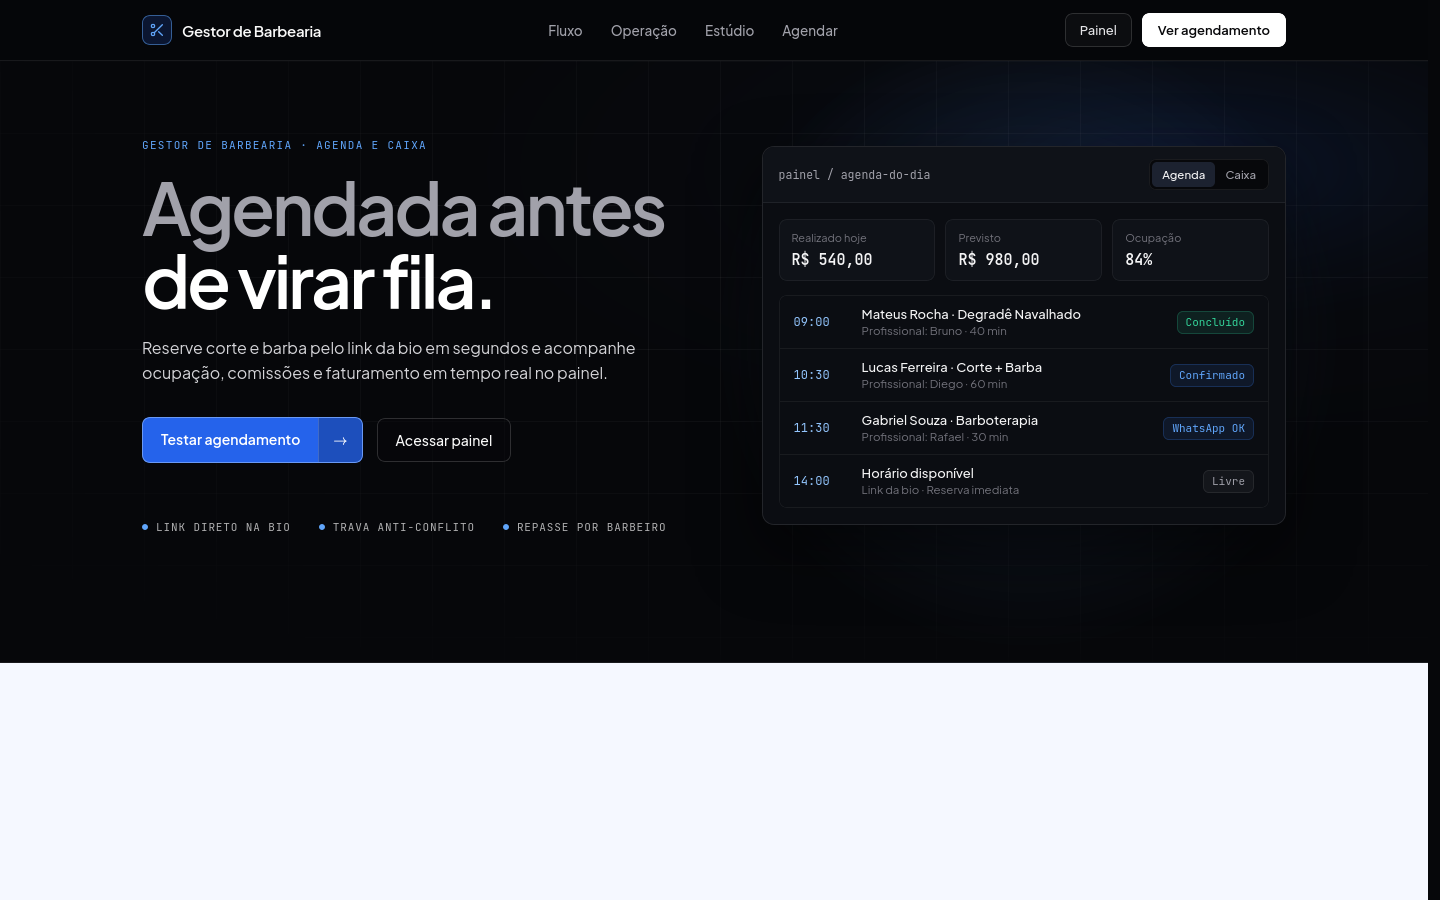
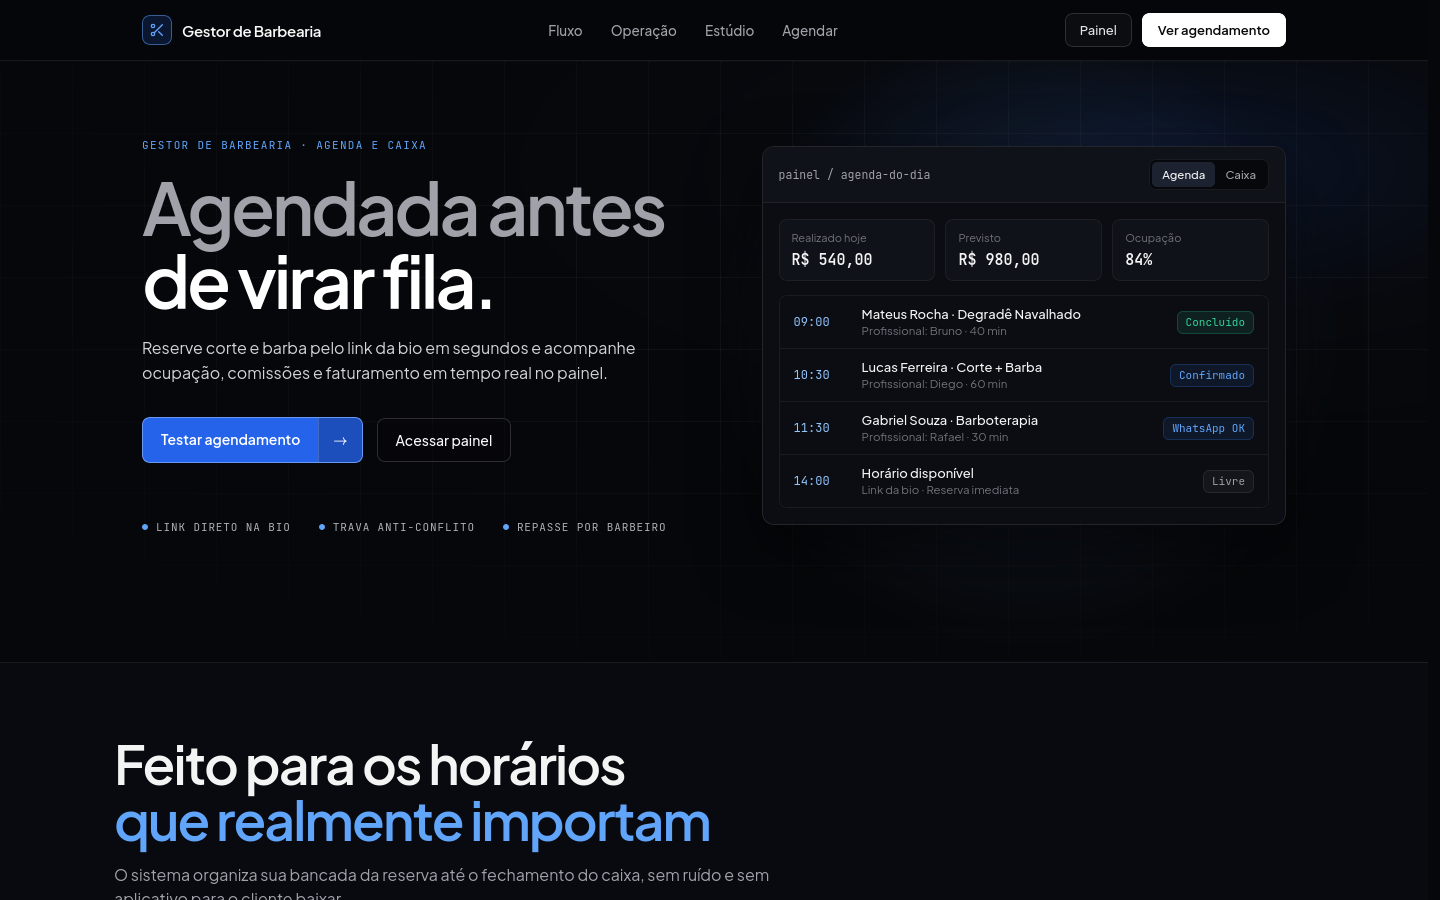
style(apresentacao): fix white fold band and unify Obsidian dark surface

Changed region(s): [[0.0, 0.7156, 1.0, 1.0]]

diff --git a/public/apresentacao.html b/public/apresentacao.html
@@ -17,11 +17,11 @@
       --blue-bright: #3B82F6;
       --blue-soft: #60A5FA;
       --blue-ice: #93C5FD;
-      --ice-bg: #F5F8FF;
-      --ice-card: #FFFFFF;
-      --ice-border: #E2E8F0;
-      --ink-dark: #09090B;
-      --ink-muted: #52525B;
+      --ice-bg: #080A0F;
+      --ice-card: #0E1117;
+      --ice-border: rgba(255, 255, 255, 0.08);
+      --ink-dark: #F4F4F5;
+      --ink-muted: #A1A1AA;
       --font: 'Plus Jakarta Sans', -apple-system, BlinkMacSystemFont, 'Segoe UI', sans-serif;
       --font-mono: 'JetBrains Mono', ui-monospace, SFMono-Regular, monospace;
       --ease: cubic-bezier(0.22, 1, 0.36, 1);
@@ -691,12 +691,12 @@
       font-weight: 600;
       line-height: 1.05;
       letter-spacing: -0.035em;
-      color: #09090B;
+      color: var(--ink-dark);
     }
 
     .ice-h2 span {
       display: block;
-      color: #2563EB;
+      color: #60A5FA;
     }
 
     .ice-sub {
@@ -731,7 +731,7 @@
     }
 
     .four-col-item:hover {
-      background: #F4F8FF;
+      background: #121722;
     }
 
     .four-col-item svg polygon,
@@ -767,14 +767,14 @@
       font-size: 16px;
       font-weight: 600;
       letter-spacing: -0.02em;
-      color: #09090B;
+      color: var(--ink-dark);
     }
 
     .col-desc {
       margin: 0;
       font-size: 13.5px;
       line-height: 1.55;
-      color: #52525B;
+      color: var(--ink-muted);
     }
 
     .ice-link-row {
@@ -852,14 +852,13 @@
     }
 
     .ana-card {
-      background: #FFFFFF;
-      border: 1px solid #E2E8F0;
-      border-radius: 16px;
+      background: var(--ice-card);
+      border: 1px solid var(--ice-border);
+      border-radius: 12px;
       padding: 22px;
       display: flex;
       flex-direction: column;
       justify-content: space-between;
-      box-shadow: 0 10px 28px -14px rgba(15, 23, 42, 0.08);
     }
 
     .ana-card-head {
@@ -872,13 +871,13 @@
     .ana-card-title {
       font-size: 13.5px;
       font-weight: 600;
-      color: #0F172A;
+      color: var(--ink-dark);
     }
 
     .ana-card-sub {
       font-family: var(--font-mono);
       font-size: 10.5px;
-      color: #64748B;
+      color: #71717A;
       text-transform: uppercase;
     }
 
@@ -894,12 +893,12 @@
       font-weight: 600;
       letter-spacing: -0.025em;
       font-variant-numeric: tabular-nums;
-      color: #09090B;
+      color: var(--ink-dark);
     }
 
     .ana-kpi span {
       font-size: 11.5px;
-      color: #64748B;
+      color: var(--ink-muted);
     }
 
     .dot-matrix {
@@ -912,7 +911,7 @@
     .dot-cell {
       aspect-ratio: 1;
       border-radius: 999px;
-      background: #E2E8F0;
+      background: #1C2230;
       transition: transform 150ms var(--ease), background 150ms var(--ease);
       cursor: crosshair;
     }
@@ -921,15 +920,15 @@
       transform: scale(1.28);
     }
 
-    .dot-cell.b1 { background: #BFDBFE; }
-    .dot-cell.b2 { background: #60A5FA; }
-    .dot-cell.b3 { background: #2563EB; }
+    .dot-cell.b1 { background: #1E3A8A; }
+    .dot-cell.b2 { background: #3B82F6; }
+    .dot-cell.b3 { background: #60A5FA; }
 
     .dot-tooltip {
       margin-top: 10px;
       font-family: var(--font-mono);
       font-size: 11px;
-      color: #475569;
+      color: #A1A1AA;
       min-height: 16px;
     }
 
@@ -941,8 +940,8 @@
     .digest-item {
       padding: 12px 14px;
       border-radius: 10px;
-      border: 1px solid #E2E8F0;
-      background: #F8FAFF;
+      border: 1px solid var(--ice-border);
+      background: #11151E;
       display: flex;
       justify-content: space-between;
       align-items: center;
@@ -954,7 +953,7 @@
     .digest-item:hover,
     .digest-item.active {
       border-color: #3B82F6;
-      background: #EFF6FF;
+      background: #161D2C;
     }
 
     .digest-item:active {
@@ -965,19 +964,19 @@
       display: block;
       font-size: 13px;
       font-weight: 600;
-      color: #0F172A;
+      color: var(--ink-dark);
     }
 
     .digest-item span {
       font-size: 11.5px;
-      color: #64748B;
+      color: var(--ink-muted);
     }
 
     .digest-badge {
       font-family: var(--font-mono);
       font-size: 11px;
       font-weight: 600;
-      color: #2563EB;
+      color: #60A5FA;
       background: rgba(37, 99, 235, 0.1);
       padding: 4px 8px;
       border-radius: 6px;
@@ -1072,8 +1071,8 @@
 
     /* ---------------- REVEAL & KEYFRAMES ---------------- */
     .reveal {
-      opacity: 0;
-      transform: translateY(16px);
+      opacity: 1;
+      transform: none;
       transition: opacity 460ms var(--ease), transform 460ms var(--ease);
     }
 
